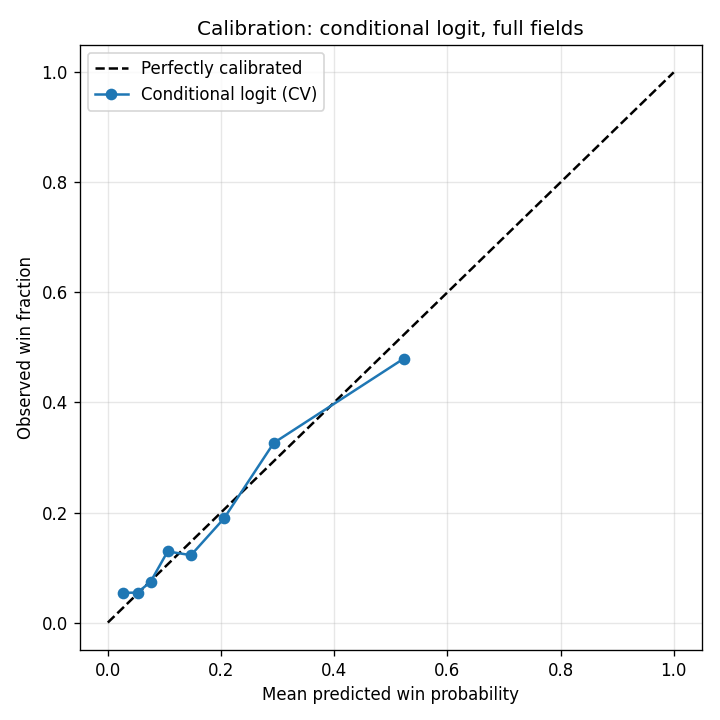
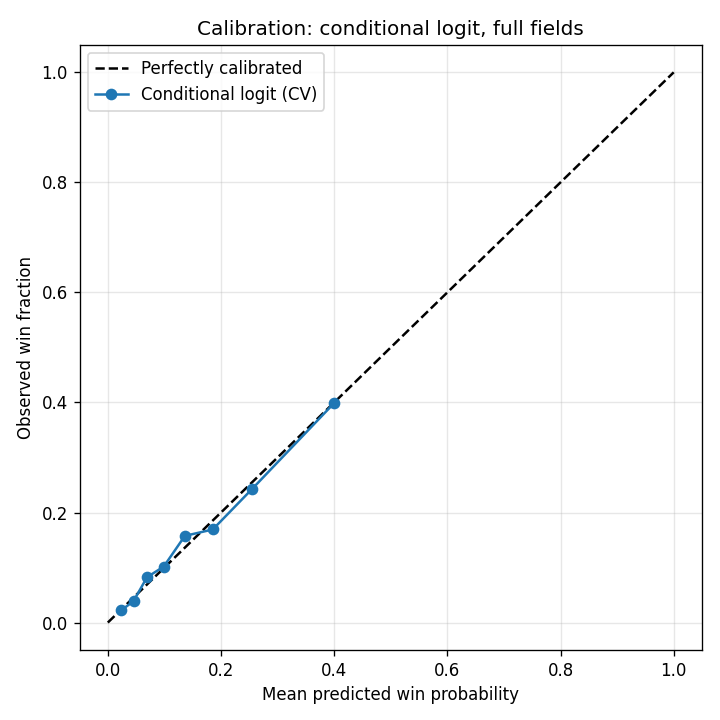
Backfill Santa Anita into entries table for CL training
backfill_sa_entries.py synthesises one entries row per SA result-chart
finisher: post-race odds stand in for ml_odds, prime_power and signals
are NULL/empty, and pp_missing absorbs the absent PP factors. Idempotent
via the entries unique index.

After backfill + retrain:
- CL training set: 211 -> 1,371 races (SA contributes 1,217)
- Coefficients now dominated by log_ml (+0.821, up from +0.380) because
  SA's ml_odds is post-race tote, which is strictly more predictive than
  the morning lines on the other tracks
- pp_missing, prime_power_c, jt_winpct_c all shrink toward 0 since SA's
  always-missing values get centered out within race
- Race log-loss: model 1.5999 vs ML baseline 1.5998 -- model essentially
  tracks the public odds for SA, gives no edge there

Changed region(s): [[0.1528, 0.55, 0.4889, 0.8556], [0.5194, 0.4889, 0.5806, 0.5194], [0.4889, 0.5194, 0.5194, 0.55]]

diff --git a/scripts/backfill_sa_entries.py b/scripts/backfill_sa_entries.py
@@ -1,0 +1,85 @@
+"""backfill_sa_entries.py -- Synthesise entries rows for Santa Anita from
+results PDFs.
+
+The Benter-style conditional logit in prob_model.py trains on the entries
+table (full fields per starter). Tracks with Brisnet PPs get rich entries
+from brisnet_parser_v2.py / backfill_entries.py. Santa Anita has only result
+charts in this repo, so we create entries from results: post-race odds stand
+in for ml_odds, prime_power and the signals are NULL/empty, and the model's
+pp_missing flag (CL coefficient -0.919) absorbs the absent PP factors.
+
+Idempotent via the (track, race_date, race_num, horse_name) unique index on
+entries; re-running after new SA result PDFs land only inserts the new rows.
+
+Usage:
+    py scripts/backfill_sa_entries.py
+"""
+
+import sqlite3, sys
+from pathlib import Path
+
+try:
+    sys.stdout.reconfigure(encoding='utf-8')
+except AttributeError:
+    pass
+
+DB_PATH = Path(__file__).parent / 'benter_model.db'
+
+SELECT_SA = """
+SELECT ra.race_id, ra.race_date, ra.race_num,
+       res.finish_pos, res.horse_name,
+       res.trainer, res.jockey, res.sire, res.odds
+FROM races ra
+JOIN results res ON res.race_id = ra.race_id
+WHERE ra.track = 'SA'
+  AND res.odds IS NOT NULL AND res.odds > 1.0
+"""
+
+INSERT_ENTRY = """
+INSERT OR IGNORE INTO entries
+(race_id, track, race_date, race_num, post_pos, horse_name,
+ ml_odds, final_odds, prime_power, pp_rank,
+ trainer, jockey, sire,
+ signal_types, is_pick, improving, jt_zero)
+VALUES (?, 'SA', ?, ?, ?, ?, ?, ?, NULL, NULL, ?, ?, ?, '', 0, 0, 0)
+"""
+
+
+def main():
+    if not DB_PATH.exists():
+        print(f"DB not found: {DB_PATH}")
+        sys.exit(1)
+
+    con = sqlite3.connect(DB_PATH)
+    cur = con.cursor()
+
+    rows = cur.execute(SELECT_SA).fetchall()
+    inserted = 0
+    for race_id, race_date, race_num, finish_pos, horse, trainer, jockey, sire, odds in rows:
+        # post_pos isn't preserved in results; leave NULL — not a CL feature
+        cur.execute(INSERT_ENTRY,
+                    (race_id, race_date, race_num, None, horse,
+                     odds, odds, trainer, jockey, sire))
+        if cur.rowcount:
+            inserted += 1
+    con.commit()
+
+    # Sanity summary
+    total = cur.execute("SELECT COUNT(*) FROM entries WHERE track='SA'").fetchone()[0]
+    races = cur.execute("SELECT COUNT(DISTINCT race_id) FROM entries WHERE track='SA'").fetchone()[0]
+    print(f"Inserted {inserted} new SA entries (table now has {total} rows across {races} races)")
+
+    # Verify CL training would pick up SA
+    cl = cur.execute("""
+        SELECT COUNT(DISTINCT e.race_id) FROM entries e
+        JOIN results r ON r.race_id = e.race_id AND r.horse_name = e.horse_name
+        WHERE r.finish_pos IS NOT NULL AND e.ml_odds IS NOT NULL AND e.ml_odds > 1.0
+          AND e.track = 'SA'
+    """).fetchone()[0]
+    print(f"SA races eligible for CL training: {cl}")
+
+    con.close()
+
+
+if __name__ == '__main__':
+    main()
